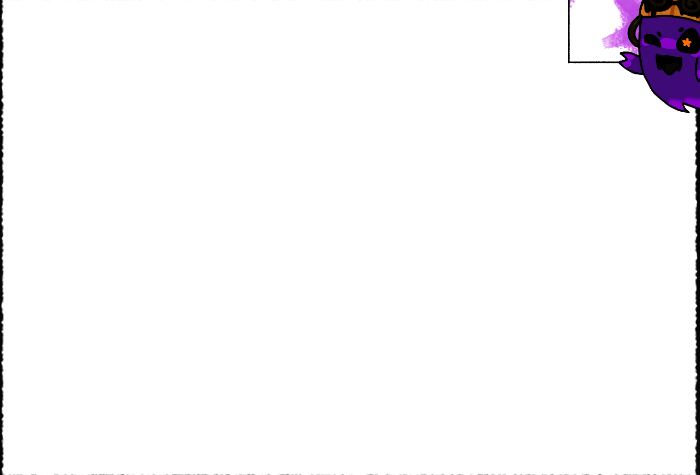
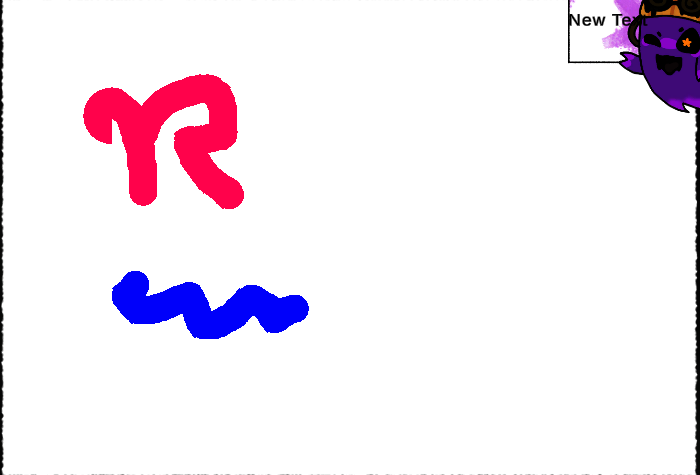
a

Changed region(s): [[0.12, 0.1474, 0.36, 0.4421], [0.15, 0.56, 0.45, 0.7368], [0.81, 0.0295, 0.93, 0.0589]]

diff --git a/Assets/Scripts/CompareImage/Player.cs b/Assets/Scripts/CompareImage/Player.cs
@@ -1,4 +1,5 @@
 using System.IO;
+using TMPro;
 using UnityEngine;
 
 public class Player : MonoBehaviour
@@ -6,6 +7,7 @@ public class Player : MonoBehaviour
     public int id = 0;
     private int score = 0;
     public Texture2D playerDrawing;
+    public TextMeshProUGUI textoComparacao;
 
     private void Update()
     {
@@ -35,5 +37,6 @@ public class Player : MonoBehaviour
         int points = Mathf.RoundToInt(similarity * 100);
         score += points;
         Debug.Log($"Player {id} scored {points} points! Total: {score}");
+        textoComparacao.text = points.ToString();
     }
 }

diff --git a/Assets/Scripts/CompareImage/SentisComparer.cs b/Assets/Scripts/CompareImage/SentisComparer.cs
@@ -3,6 +3,7 @@ using Unity.InferenceEngine;
 using System.Collections.Generic;
 using System.Linq;
 using Unity.VisualScripting;
+using TMPro;
 
 public class InferenceComparer : MonoBehaviour
 {
